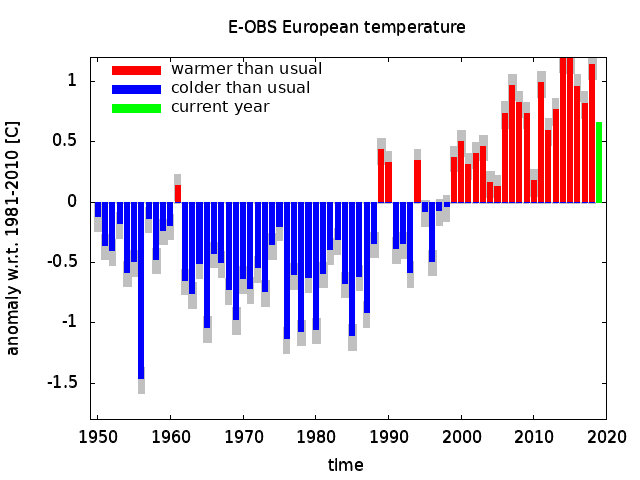
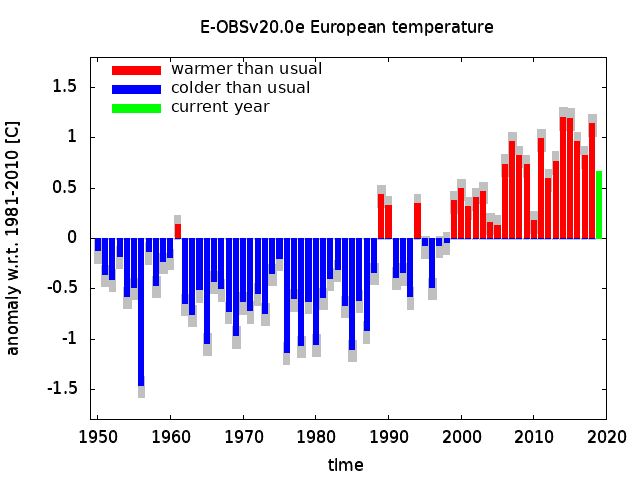
updated soc september 2019

diff --git a/stateoftheclimate/september2019.php b/stateoftheclimate/september2019.php
@@ -62,7 +62,7 @@ Click on the figures for larger ones.
 
 <h2>Cut off low bringing heavy precipitation over Eastern Spain</h2>
 <br><br>
-In the week of 9 September a cut off low pressure system was formed that brought heavy precipitation in south eastern Spain. Between 11 and 13 September more than 400 mm rain fell in parts of the Valentia region. The town of Ontinyent, 50 kilometer south-west of Valencia, recorded 296.4 millimeter of rain in 24 hours, which is the second highest daily rainfall on record. The precipitation led to local flooding and at least six deaths. The low pressure system originated from a cold through over Ireland on 9 September (figure 1a) that was cut off from the jet stream, which then moved southward as a cut off low (figures 1b-e). On 11-13 September the highly instable easterly flow from the warm Mediterranean brought heavy convective and orographic rainfall. The arrival of cold air originating from north of the jet stream caused what in Spain is called a gota fr&#237;a, literally a cold drop (figure 2a-e).
+In the week of 9 September a cut off low pressure system was formed that brought heavy precipitation in southeastern Spain. Between 11 and 13 September more than 400 mm rain fell in parts of the Valencia region. The town of Ontinyent, 50 kilometer southwest of Valencia, recorded 296.4 millimeter of rain in 24 hours, which is the second highest daily rainfall on record. The precipitation led to local flooding and at least six deaths. The low pressure system originated from a cold through over Ireland on 9 September (Figure 1a) that was cut off from the jet stream, which then moved southward as a cut off low (Figures 1b-e). On 11-13 September the highly instable easterly flow from the warm Mediterranean brought heavy convective and orographic rainfall. The arrival of cold air originating from north of the jet stream caused what in Spain is called a gota fr&#237;a, literally a cold drop (Figure 2a-e).
 <br><br>
 <a href="../images/sep2019/Fig_sep19_1a.png"><img alt="" src="../images/sep2019/Fig_sep19_1a.png" width="155px"></a>
 <a href="../images/sep2019/Fig_sep19_1b.png"><img alt="" src="../images/sep2019/Fig_sep19_1c.png" width="155px"></a>
@@ -91,7 +91,7 @@ The heavy precipitation over eastern Spain can also be seen in Figure 3 with the
 <br><br>
 <em>Figure 3: Heavy precipitation (>10 mm) days in September 2019 (left) and anomaly w.r.t. 1981-2010 (right)</em>
 <br><br>
-The minimum of daily minimum temperature was lower than the 1981-2010 average in large parts of the Benelux, Germany, France and eastern Europe (Figure 4). Also the number of cold nights (Figure 5) was much higher than normal in Germany and parts of Northern and Eastern Europe.
+The minimum of daily minimum temperature was lower than the 1981-2010 average in large parts of the Benelux, Germany, France and eastern Europe (Figure 4). Also the number of cold nights (Figure 5) was much higher than normal in Germany and parts of northern and eastern Europe.
 <br><br>
 <a href="../images/sep2019/Stateofclimate_IndicesTest_tnn_2019_month_nc_baselayers_world_polygons_tnnETCCDI_baselayers_overlay_2019-09-15T12-00-00Z_large.png" target="_blank"><img alt="" src="../images/sep2019/Stateofclimate_IndicesTest_tnn_2019_month_nc_baselayers_world_polygons_tnnETCCDI_baselayers_overlay_2019-09-15T12-00-00Z.png" ></a>
 <a href="../images/sep2019/Stateofclimate_IndicesTest_tnn_2019_month_nc__2019-09-15T12-00-00Z_large.png" target="_blank"><img alt="" src="../images/sep2019/Stateofclimate_IndicesTest_tnn_2019_month_nc__2019-09-15T12-00-00Z.png" ></a>
@@ -119,7 +119,7 @@ Eastern Europe did not only experience low minimum temperatures but also high ma
 <h2>The weather in September 2019</h2>
 <h3>Temperature deviations and extremes</h3>
 <br><br>
-Daily minimum temperatures were above the 1981-2010 average in Italy and in South East Europe (Figure 7). In North Africa the average temperature was lower than normal which might be explained by the torrential rain episode in the beginning of September.
+Daily minimum temperatures were above the 1981-2010 average in Italy and in southeast Europe (Figure 7). In North Africa the average temperature was lower than normal which might be explained by the torrential rain episode in the beginning of September.
 <br><br>
 <a href="../images/sep2019/Stateofclimate_Sep2019_tn_0_25deg_anom_monthlymeans_2019_1981-2010_v20_0e_nc_baselayers_world_polygons_tn_baselayers_overlay_2019-09-30T00-00-00Z_large.png" target="_blank"><img alt="" src="../images/sep2019/Stateofclimate_Sep2019_tn_0_25deg_anom_monthlymeans_2019_1981-2010_v20_0e_nc_baselayers_world_polygons_tn_baselayers_overlay_2019-09-30T00-00-00Z.png" ></a>
 <a href="../images/sep2019/Stateofclimate_Sep2019_tg_0_25deg_anom_monthlymeans_2019_1981-2010_v20_0e_nc_baselayers_world_polygons_tg_baselayers_overlay_2019-09-30T00-00-00Z_large.png" target="_blank"><img alt="" src="../images/sep2019/Stateofclimate_Sep2019_tg_0_25deg_anom_monthlymeans_2019_1981-2010_v20_0e_nc_baselayers_world_polygons_tg_baselayers_overlay_2019-09-30T00-00-00Z.png" ></a>
@@ -157,10 +157,10 @@ The right panel of Figure 11 shows the daily temperature, averaged over Europe, 
 <a href="../images/sep2019/EuropeanAverage_annual_wrt81-10_201909_v20.0e.png"><img alt="" src="../images/sep2019/EuropeanAverage_annual_wrt81-10_201909_v20.0e.png" width="250px"></a>
 <a href="../images/sep2019/dailyanomalies_0.25deg_201909_v20.0e.png"><img alt="" src="../images/sep2019/dailyanomalies_0.25deg_201909_v20.0e.png" width="250px"></a>
 <br><br>
-<em>Figure 11: European land surface temperature: annual anomalies with the current year in green. The grey bands show the uncertainty in the averaged temperature (left). Daily anomalies with respect to the seasonal cycle until the end of September 2019 (right). (Based on E-OBS)</em>
+<em>Figure 11: European land surface temperature (30W - 50E, 25N - 75N): annual anomalies with the current year in green. The grey bands show the uncertainty in the averaged temperature (left). Daily anomalies with respect to the seasonal cycle until the end of September 2019 (right). (Based on E-OBSv20.0e)</em>
 <br><br>
 <h3>Precipitation</h3>
-The heavy precipiation in the Valentia area is recognized in the E-OBS data (Figure 12) and it can be regarded as exceptional above the average (Figure 13). Note that also North Africa received rain amounts of 60 mm which is also rated as above the average. Central, North and Western Europe were also wetter than average. Romania and Bulgaria were dry and the rainfall was under the 30-years average.
+The heavy precipiation in the Valencia area is recognized in the E-OBS data (Figure 12) and it can be regarded as exceptional above the average (Figure 13). Note that also North Africa received rain amounts of 60 mm which is also rated as above the average. Central, north and west Europe were also wetter than average. Romania and Bulgaria were dry and the rainfall was under the 30-years average.
 <br><br>
 <a href="../images/sep2019/Stateofclimate_Sep2019_rr_0_25deg_2019_month_nc_baselayers_world_polygons_rr_baselayers_overlay_2019-09-30T00-00-00Z_large.png" target="_blank"><img alt="" src="../images/sep2019/Stateofclimate_Sep2019_rr_0_25deg_2019_month_nc_baselayers_world_polygons_rr_baselayers_overlay_2019-09-30T00-00-00Z.png" ></a>
 <a href="../images/sep2019/Stateofclimate_Sep2019_rx1day_0_25deg_2019_month_nc_baselayers_world_polygons_RX1day_baselayers_overlay_2019-09-16T00-00-00Z_large.png" target="_blank"><img alt="" src="../images/sep2019/Stateofclimate_Sep2019_rx1day_0_25deg_2019_month_nc_baselayers_world_polygons_RX1day_baselayers_overlay_2019-09-16T00-00-00Z.png" ></a>
@@ -188,7 +188,7 @@ The heavy precipiation in the Valentia area is recognized in the E-OBS data (Fig
 <br><br>
 <h3>Radiation and Cloudiness</h3>
 <br><br>
-The global radiation anomaly based on E-OBS (Figure 15) is under the average. The incoming surface radiation based on Seviri/Mviri data (Figure 16) reveals an anomaly which is under the average. The monthly cloud cover (Figure 17) is 40 percent in Southern Europe which is slightly under the average.
+The global radiation anomaly based on E-OBS (Figure 15) is under the average. The incoming surface radiation based on Seviri/Mviri data (Figure 16) reveals an anomaly which is under the average. The monthly cloud cover (Figure 17) is 40 percent in southern Europe which is slightly under the average.
 <br><br>
 <br><br>
 <a href="../images/sep2019/Stateofclimate_Sep2019_qq_0_25deg_monthlymeans_2019_nc_baselayers_world_polygons_qq_baselayers_overlay_2019-09-30T00-00-00Z_large.png" target="_blank"><img alt="" src="../images/sep2019/Stateofclimate_Sep2019_qq_0_25deg_monthlymeans_2019_nc_baselayers_world_polygons_qq_baselayers_overlay_2019-09-30T00-00-00Z.png" ></a>
